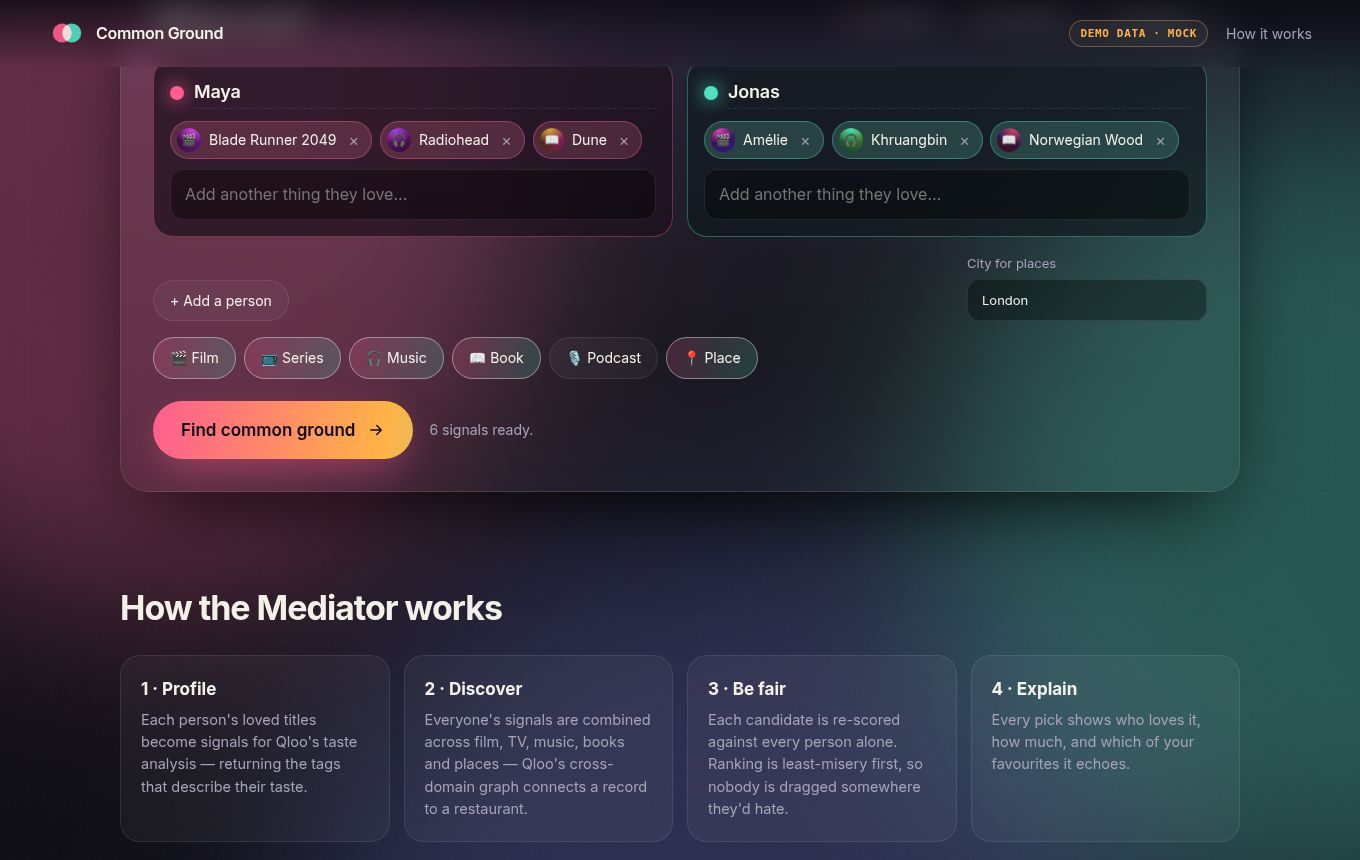
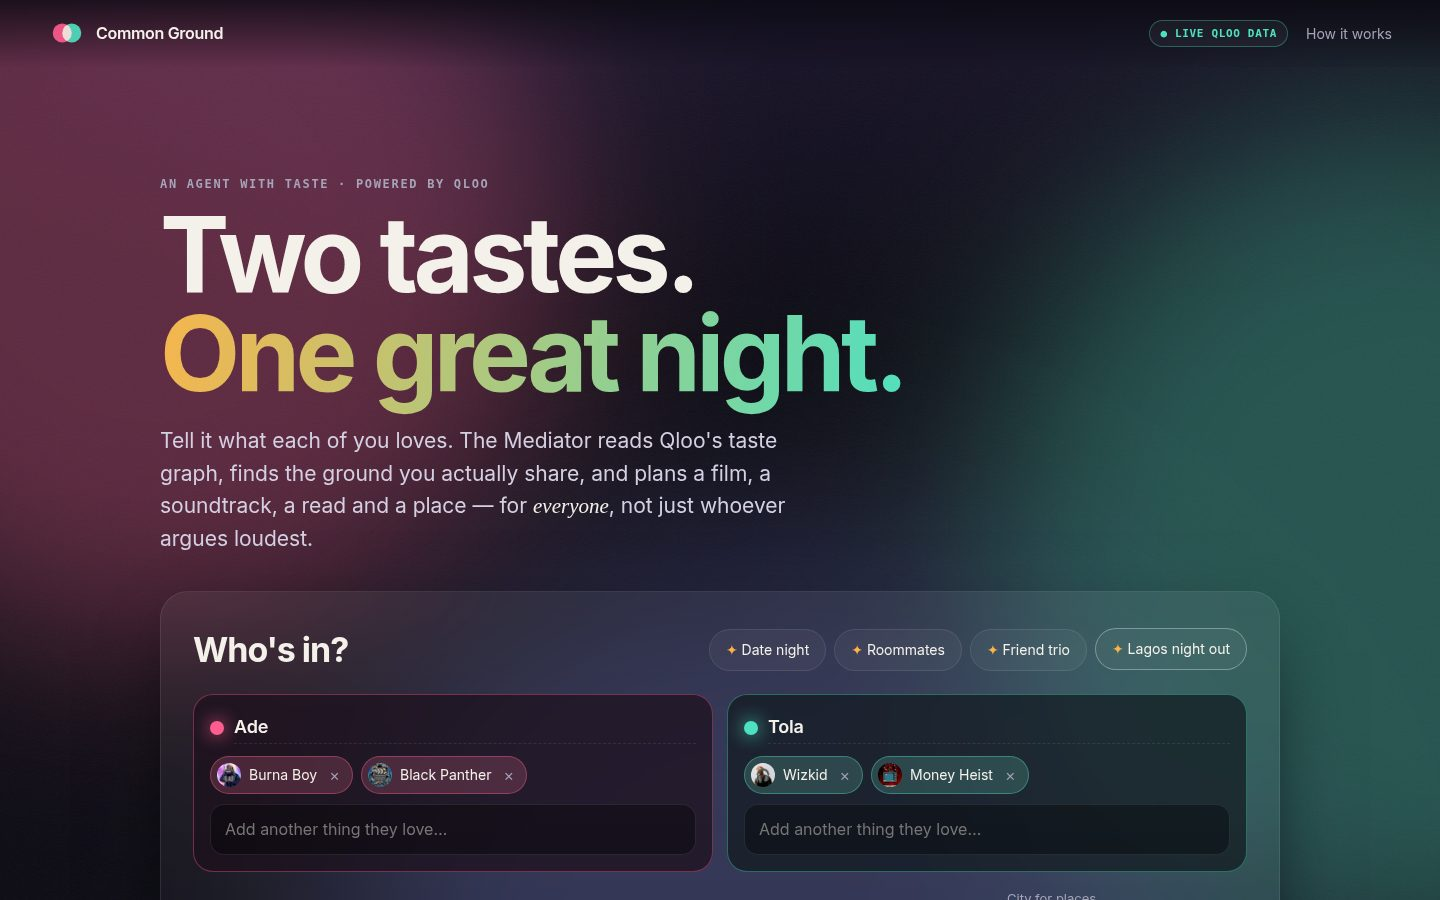
docs: live-data screenshots

diff --git a/README.md b/README.md
@@ -11,6 +11,8 @@ Common Ground is an agentic web app built for the **Qloo LLM / Agentic Hackathon
 
 It works for date nights, roommates, friend groups, team offsites, family movie night… anywhere two people with different taste have to share one evening. Taste is universal, so the product is too — it is language- and country-agnostic. In live mode any city Qloo has place data for works (verified with Lagos, London, New York and Tokyo); the offline mock ships with six cities.
 
+*Screenshots below are from the deployed demo running on live Qloo data (Lagos preset).*
+
 ![Home](docs/img/01-home.jpg)
 ![Verdict](docs/img/03-verdict.jpg)
 ![Plan](docs/img/04-plan.jpg)
